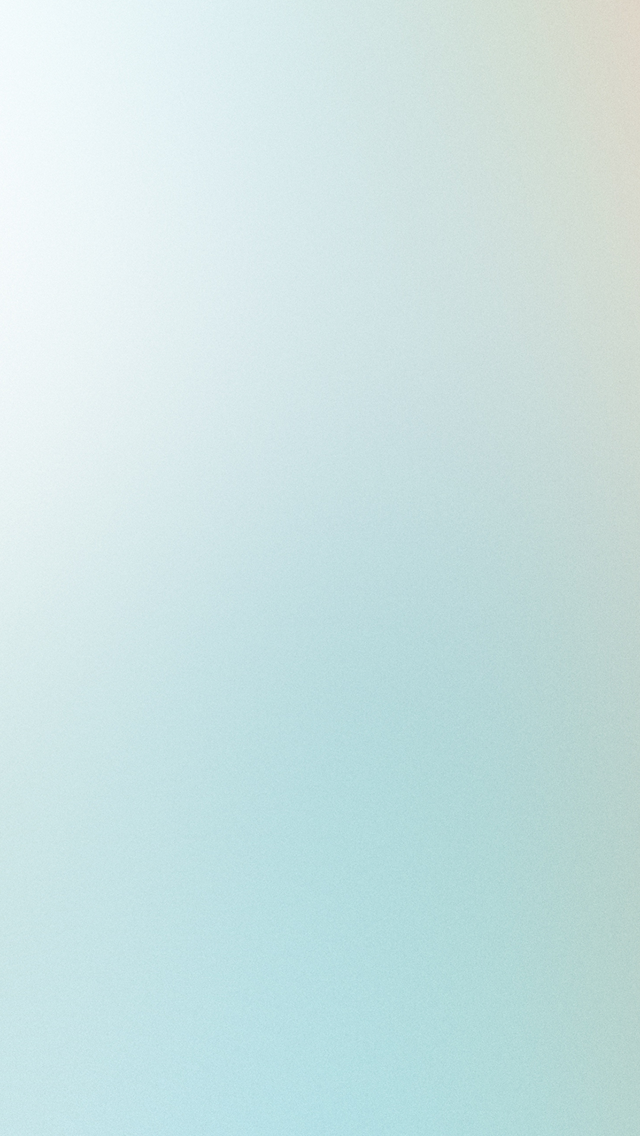
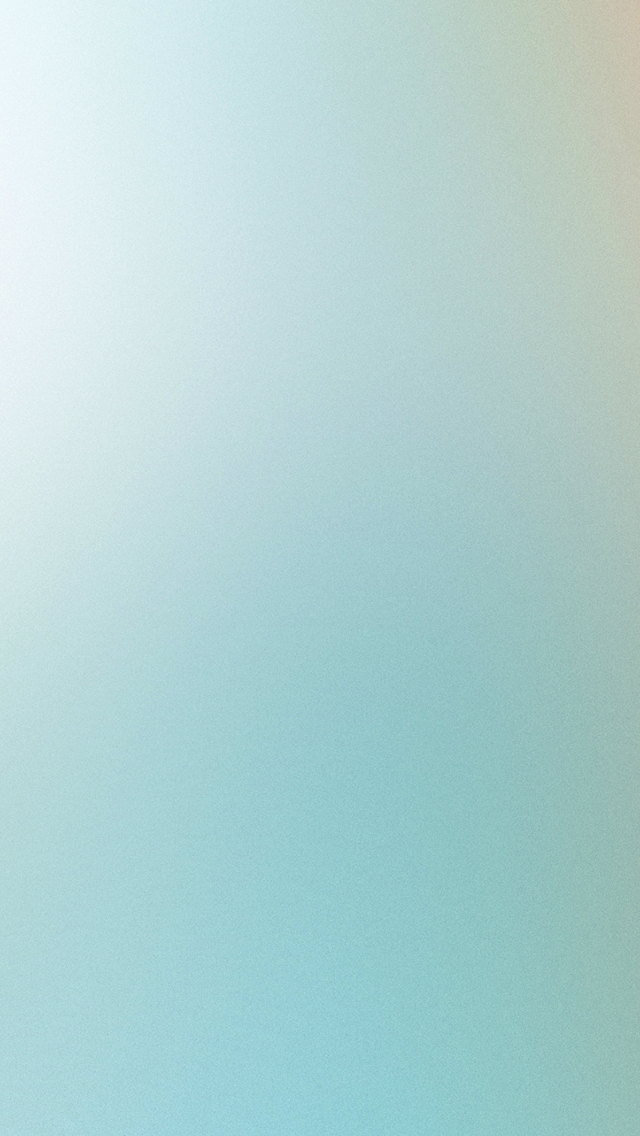
Revamp to gradient background, SCSS - COMPASS SASS.

diff --git a/tpl/FormularyView.html b/tpl/FormularyView.html
@@ -15,33 +15,34 @@
         <div><a href="<%= plan_url %>"><%= plan_name %></a></div>
         <div><%= additional_info %></div>
         <div>Restriction: <a href="" class="modal-js" data-target="restrictionModal"><%= restriction_code %></a></div>
-        <div id="restrictionModal" class="modal">
-            <header class="bar bar-nav">
-                <a class="icon icon-close pull-right" href="#myModalexample"></a>
-                <h1 class="title">Formulary Restrictions</h1>
-            </header>
+    </div>
+    <div id="restrictionModal" class="modal">
+        <header class="bar bar-nav">
+            <a class="icon icon-close pull-right close" href=""></a>
+            <h1 class="title">Formulary Restrictions</h1>
+        </header>
 
-            <div class="content">
-                <p class="content-padded">
-                <ul class="table-view">
-                    <li class="table-view-cell media">
-                        <a class="navigate-right">
-                            <img class="media-object pull-left" src="http://placehold.it/42x42">
-                            <div class="media-body">
-                                PA - Prior Authorization
-                                <p>Drugs that require prior authorization. This restriction requires that specific clinical criteria be met prior to the approval of the prescription.</p>
-                            </div>
-                        </a>
-                    </li>
-                    <li class="table-view-cell media">
-                        <a class="navigate-right">
-                            <img class="media-object pull-left" src="http://placehold.it/42x42">
-                            <div class="media-body">
-                                QL - Quantity Limits
-                                <p>Drugs that have quantity limits associated with each prescription. This restriction typically limits the quantity of drug that will be covered.</p>
-                            </div>
-                        </a>
-                    </li>
+        <div class="content">
+            <p class="content-padded">
+            <ul class="table-view">
+                <li class="table-view-cell media">
+                    <a class="navigate-right">
+                        <img class="media-object pull-left" src="http://placehold.it/42x42">
+                        <div class="media-body">
+                            PA - Prior Authorization
+                            <p>Drugs that require prior authorization. This restriction requires that specific clinical criteria be met prior to the approval of the prescription.</p>
+                        </div>
+                    </a>
+                </li>
+                <li class="table-view-cell media">
+                    <a class="navigate-right">
+                        <img class="media-object pull-left" src="http://placehold.it/42x42">
+                        <div class="media-body">
+                            QL - Quantity Limits
+                            <p>Drugs that have quantity limits associated with each prescription. This restriction typically limits the quantity of drug that will be covered.</p>
+                        </div>
+                    </a>
+                </li>
                 <li class="table-view-cell media">
                     <a class="navigate-right">
                         <img class="media-object pull-left" src="http://placehold.it/42x42">
@@ -60,9 +61,8 @@
                         </div>
                     </a>
                 </li>
-                </ul>
-                </p>
-            </div>
+            </ul>
+            </p>
         </div>
     </div>
     <div class="padding-row"></div>

diff --git a/css/compass/sass/styles.scss b/css/compass/sass/styles.scss
@@ -1,0 +1,121 @@
+@import "compass";
+
+body{
+  font-family: "Quicksand", sans-serif;
+  font-size: 19px;
+  background-color: inherit;
+}
+button, input, select, textarea {
+  font-family: "Quicksand", sans-serif;
+}
+.content{
+  // needs latest Compass, add '@import "compass"' to your scss
+  background-color: rgb(62,119,185); // Old browsers
+  @include filter-gradient(#3e77b9, #9dd9f8, horizontal); // IE6-9 fallback on horizontal gradient
+  @include background-image(linear-gradient(left top,  rgba(62,119,185,1) 0%,rgba(73,169,248,1) 10%,rgba(64,156,234,1) 20%,rgba(157,217,248,1) 70%));
+  padding: 54px !important;
+}
+ul {
+  clear: both
+}
+.title{
+  font-weight: 600;
+}
+
+.content {
+  position: absolute;
+}
+select{
+  font-family: "Quicksand", sans-serif;
+  font-size: 16px;
+}
+.w90{width:90%}
+.bar-header-secondary > input {
+  margin-top: 6px;
+  height: 31px;
+}
+
+.details {
+  margin: auto;
+  > img {
+    float: left;
+    margin: 10px;
+    width: 80px;
+    height: 80px;
+  }
+  h1 {
+    padding-top: 16px;
+    font-size: 18px;
+  }
+}
+
+.home .table-view {
+  margin: 0 !important;
+  border: none;
+}
+
+.media-object {
+  width: 42px;
+  height: 42px;
+}
+
+.icon-call {
+  background: transparent url(../../images/ic_action_phone_outgoing.png);
+  background-repeat: no-repeat;
+}
+
+.icon-sms {
+  background: transparent url(../../images/ic_action_dialog.png);
+  background-repeat: no-repeat;
+}
+
+.icon-mail {
+  background: transparent url(../../images/ic_action_mail.png);
+  background-repeat: no-repeat;
+}
+
+.icon-manager {
+  background: transparent url(../../images/ic_action_user.png);
+  background-repeat: no-repeat;
+}
+
+.icon-reports {
+  background: transparent url(../../images/ic_action_users.png);
+  background-repeat: no-repeat;
+}
+
+.icon-contact {
+  background: transparent url(../../images/ic_action_add.png);
+  background-repeat: no-repeat;
+}
+
+.icon-location {
+  background: transparent url(../../images/ic_action_location.png);
+  background-repeat: no-repeat;
+}
+
+.text-center {
+  text-align: center;
+}
+
+.padding-row {
+  width: 100%;
+  height: 15px;
+}
+
+.inset {
+  padding: 3px 3%;
+}
+
+.bar {
+  border-bottom: none;
+}
+
+.cap {
+  text-transform: capitalize;
+}
+
+header.bar {
+  background: url("../../../img/top.png")  center no-repeat;
+  background-size: 100% 100%;
+}

diff --git a/index.html b/index.html
@@ -3,10 +3,10 @@
 <head>
     <meta charset="utf-8">
     <meta name="viewport" content="initial-scale=1, maximum-scale=1, user-scalable=no">
-    <link href="ratchet/ratchet.css" rel="stylesheet">
+    <link href="ratchet/ratchet.min.css" rel="stylesheet">
     <!--<link href="ratchet/ratchet-theme-android.css" rel="stylesheet">-->
     <link href="css/pageslider.css" rel="stylesheet">
-    <link href="css/styles.css" rel="stylesheet">
+    <link href="css/compass/stylesheets/styles.css" rel="stylesheet">
     <link rel="stylesheet" href="http://cdn.leafletjs.com/leaflet-0.7.2/leaflet.css" />
     <link href='http://fonts.googleapis.com/css?family=Quicksand:400,700' rel='stylesheet' type='text/css'>
 </head>

diff --git a/tpl/HomeView.html b/tpl/HomeView.html
@@ -1,9 +1,9 @@
 <header class="bar bar-nav">
-    <h1 class="title">Formulary Lookup</h1>
+    <h1 class="title">Select Drug</h1>
 </header>
-<div class="bar bar-standard bar-header-secondary">
-    <div class="text-center">Enter Drug Name:</div>
-    <input class='search-key' type="text"/>
-</div>
+<!--<div class="bar bar-standard bar-header-secondary">-->
+<!--</div>-->
+<div class="content-background"></div>
 <div class="content home">
+    <input class='search-key' type="text" placeholder="Drug name"/>
 </div>

diff --git a/js/utils/misc.js b/js/utils/misc.js
@@ -69,6 +69,11 @@ app.utils.misc = (function () {
                     $('#' + $(this).data('target')).addClass("active");
                 });
             });
+                $('div.modal>header>a').each(function () {
+                        $(this).click(function(){
+                                $(this).parent().parent('div.modal').removeClass("active");
+                        });
+                });
 
         };
     return {

diff --git a/ratchet/ratchet.css b/ratchet/ratchet.css
@@ -13,11 +13,6 @@ html {
   font-family: sans-serif;
   -ms-text-size-adjust: 100%;
   -webkit-text-size-adjust: 100%;
-  background: url("../img/bkground.png") no-repeat center center fixed;
-  -webkit-background-size: cover;
-  -moz-background-size: cover;
-  -o-background-size: cover;
-  background-size: cover;
 }
 
 body {
